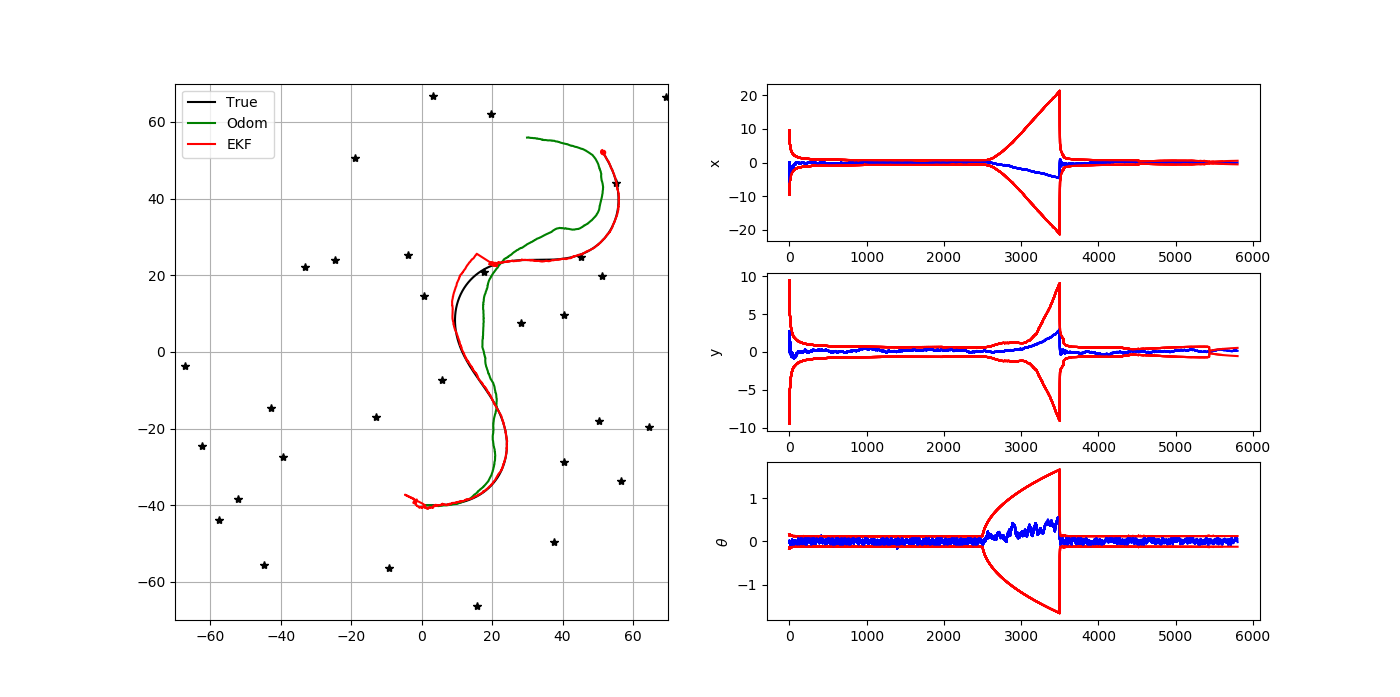
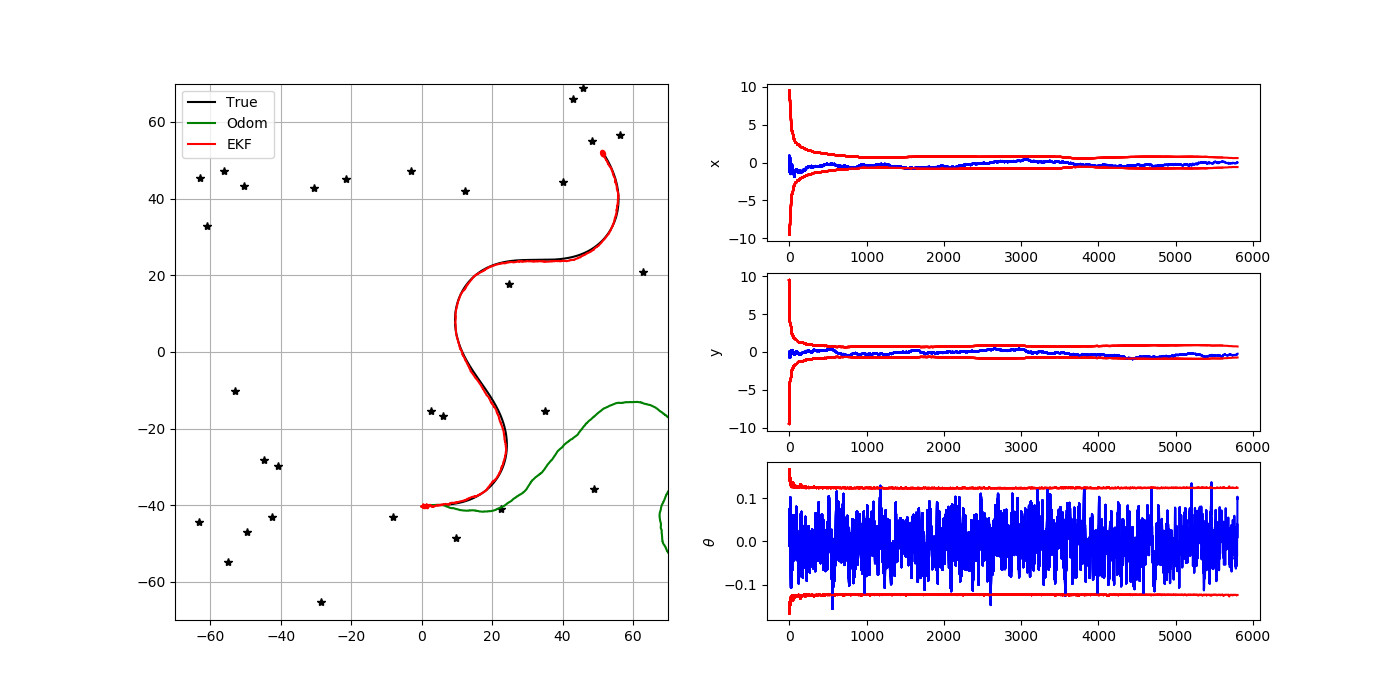
update

diff --git a/Robotique mobile/robotique-mobile-ekf-localisation/Code_EKF_Localization/EKFLocalization_Partialobservation.py b/Robotique mobile/robotique-mobile-ekf-localisation/Code_EKF_Localization/EKFLocalization_Partialobservation.py
@@ -212,14 +212,14 @@ QEst = 1000*np.eye(3, 3) @ QTrue
 PYEst = np.eye(2, 2) @ PYTrue
 """
 # High distance noise and correct direction noise of the landmarks
-QEst = np.eye(3,3) @ QTrue
+QEst = np.array([[1.0,0.0,0.0],[0.0,1.0,0.0],[0.0,0.0,1.0]]) @ QTrue
 PYEst = np.array([[1000.0,0.0],[0.0,1.0]]) @ PYTrue
 
 # initial conditions
 xTrue = np.array([[1, -40, -pi/2]]).T
 xOdom = xTrue
 xEst = xTrue
-PEst = 10 * np.diag([1, 1, (1*pi/180)**2])
+PEst = 100 * np.diag([1, 1, (1*pi/180)**2])
 
 # Init history matrixes
 hxEst = xEst
